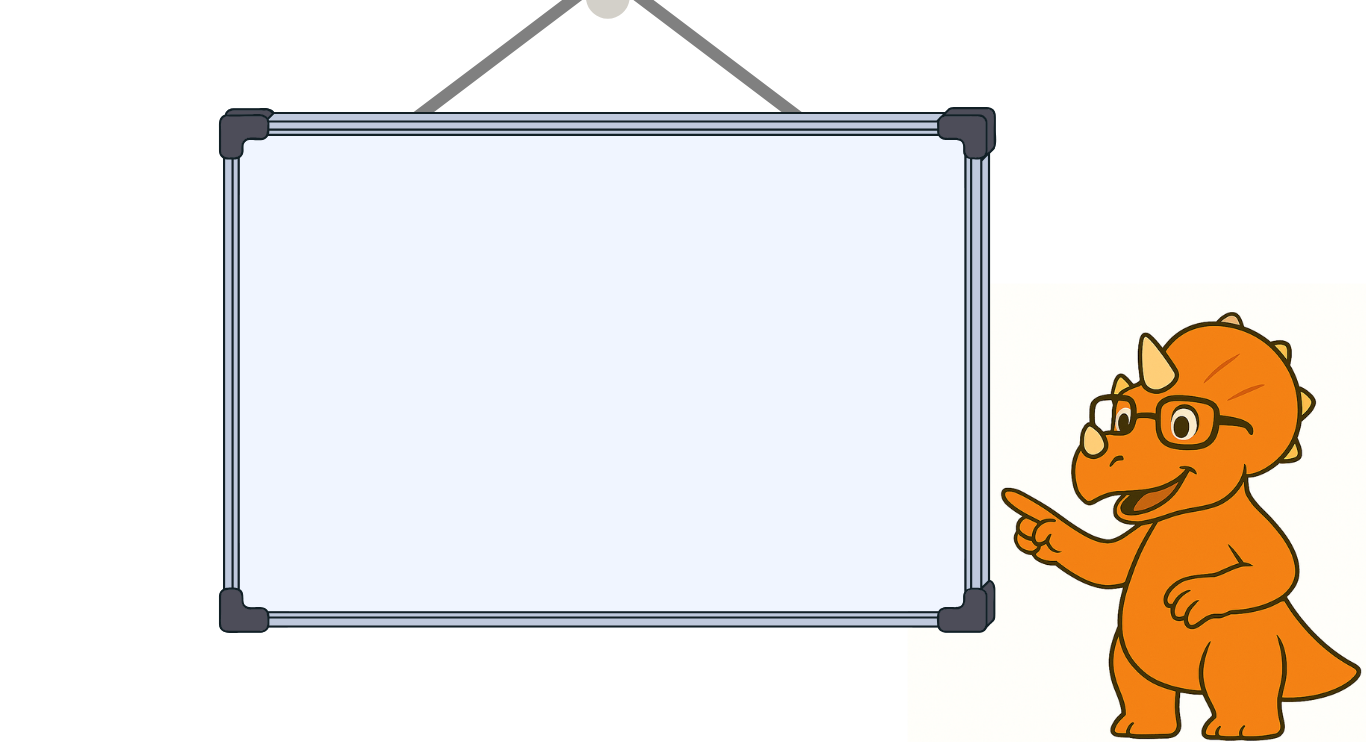
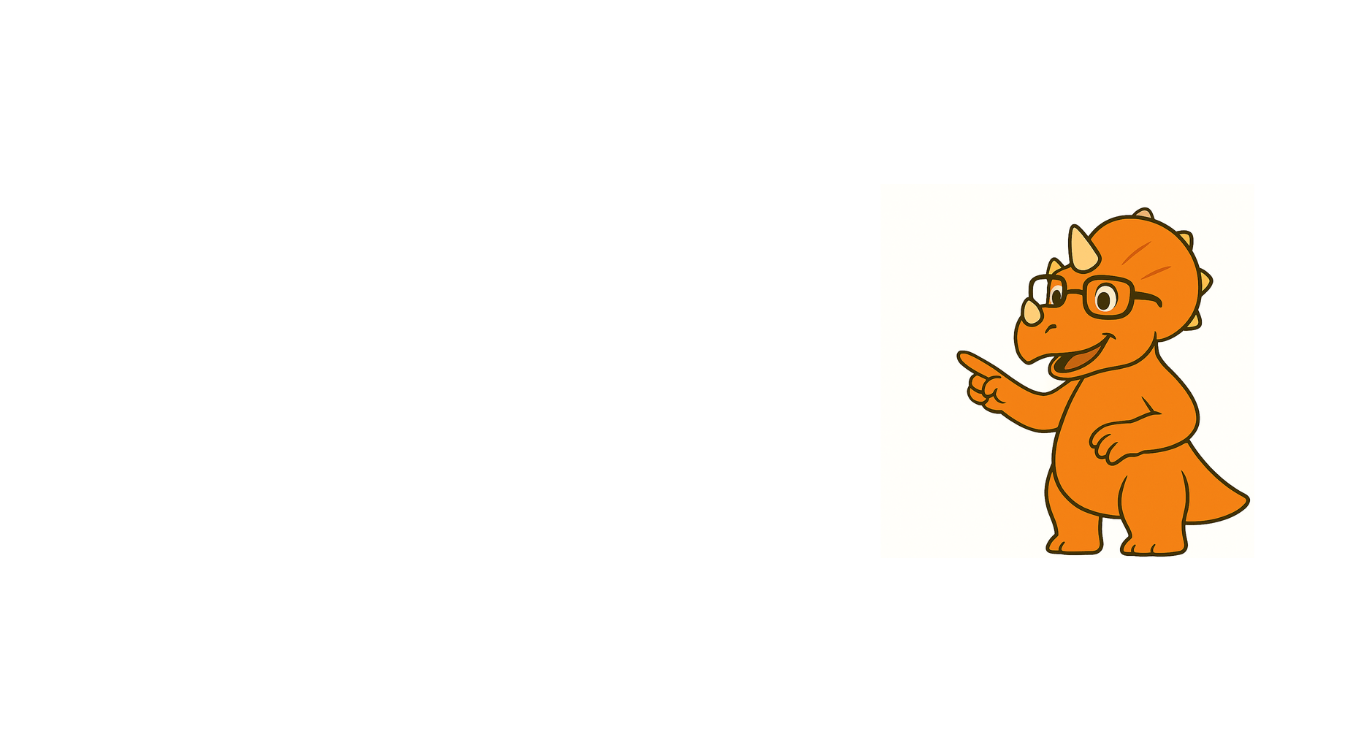
Finalizar y añadir responsive de página tutorial.

Changed region(s): [[0.1537, 0.031, 1.0, 1.0], [0.3997, 0.0, 0.4919, 0.031]]

diff --git a/Primera entrega/paginas/tutorial.html b/Primera entrega/paginas/tutorial.html
@@ -19,30 +19,91 @@
   </header>
 
   <section class="pizarron">
-    <h2>¡Bienvenido!</h2>
-    <p>
-      ¡Hola! Soy el profesor <strong>Cuernitos</strong>
-      y hoy te estaré enseñando cómo jugar <strong>Draftosaurus</strong>.
-    </p>
-    <p>
-      Acomodate en tu silla, sacá el snack y preparate para explorar el maravilloso mundo de los
-      <strong>dinosaurios</strong>.
-    </p>
-    <h4><strong>¡Comencemos!</strong></h4>
+    <p id="texto-pizarron"></p>
   </section>
+
+  <article class="botones-diapositivas">
+    <button style="display: none;" id="boton-anterior">Anterior</button>
+    <button style="display: none;" id="boton-siguiente">Siguiente</button>
+  </article>
 
   <footer class="logo-macrohard">
     <img src="../recursos/img/LogoMH2.png">
-    <div class="botones-footer">
-      <a href="#">&lt;-- Anterior</a>
-      <a href="#">Siguiente --&gt;</a>
-    </div>
   </footer>
 
   <script>
-    document.querySelector(".botones-footer").addEventListener("click", function () {
-      alert("¡Hola, soy el profe Cuernitos y aprobé JavaScript! Sin embargo, todavía tengo que hacer que los botones funcionen. ¡Disculpa las molestias!");
-    });
+
+    const textoPizarron = document.getElementById('texto-pizarron');
+    const botonAnterior = document.getElementById('boton-anterior');
+    const botonSiguiente = document.getElementById('boton-siguiente');
+
+const mensajes = [
+  "¡Hola! Soy el profesor <strong>Cuernitos</strong> y hoy te estaré enseñando cómo jugar <strong>Draftosaurus</strong>. <br> Acomodate en tu silla, sacá el snack y preparate para explorar el maravilloso mundo de los <strong>dinosaurios</strong>.",
+  
+  "<strong>Partida:</strong><br>Cada partida se divide en <strong>2 rondas</strong> de <strong>6 turnos</strong> cada una. Al inicio de cada ronda, todos agarran 6 dinosaurios al azar y los mantienen ocultos.",
+
+  "<strong>Ronda 1:</strong><br>El jugador más joven lanza el dado.<br>Todos eligen 1 dinosaurio y lo colocan en su parque.<br>Solo el jugador con el dado puede ignorar su regla.<br>Luego, pasan sus dinosaurios restantes a la izquierda, y también el dado.",
+
+  "<strong>Ronda 2:</strong><br>Empieza cuando todos tienen 6 dinos en su parque.<br>Se juega igual que la ronda 1.<br><br><strong>Final de la partida:</strong><br>Se suman los puntos. Gana quien tenga más.<br>Empate: gana quien tenga menos T-Rex. Si persiste, comparten la victoria.",
+
+  "<strong>Recintos:</strong><br>Tu parque tiene <strong>6 recintos</strong>, cada uno con reglas distintas para colocar dinosaurios y obtener puntos.<br>Además, existe el <strong>río</strong>, que no es un recinto, pero también sirve para ubicar dinosaurios.",
+
+  "<strong>El Bosque de la Semejanza:</strong><br>Solo acepta dinosaurios de <strong>la misma especie</strong>.<br>Se llena de izquierda a derecha sin dejar espacios.",
+
+  "<strong>El Prado de la Diferencia:</strong><br>Solo acepta dinosaurios de <strong>especies distintas</strong>.<br>También se llena de izquierda a derecha sin espacios.",
+
+  "<strong>La Pradera del Amor:</strong><br>Permite cualquier especie.<br><strong>5 puntos</strong> por cada <strong>pareja</strong> de la misma especie.<br>Los que no formen pareja no puntúan.",
+
+  "<strong>El Trío Frondoso:</strong><br>Solo da puntos si tiene <strong>exactamente 3 dinosaurios</strong>.<br>Menos o más: <strong>0 puntos</strong>.",
+
+  "<strong>El Rey de la Selva:</strong><br>Solo 1 dinosaurio.<br><strong>7 puntos</strong> si tenés más dinos de esa especie que los demás.<br>Empate: también ganás los puntos.",
+
+  "<strong>La Isla Solitaria:</strong><br>Solo 1 dinosaurio.<br><strong>7 puntos</strong> si es el único de su especie en tu parque.<br>Si hay otro igual en tu parque: 0 puntos.",
+
+  "<strong>El Río:</strong><br>No es un recinto.<br>Cada dinosaurio en el río vale <strong>1 punto</strong>, sin importar su especie.",
+
+  "<strong>T-Rex:</strong><br>Cada recinto con al menos 1 T-Rex da <strong>1 punto extra</strong>.<br>No importa si hay más de uno, siempre suma solo 1 extra por recinto.",
+
+  "<strong>El Dado:</strong><br>En cada turno, alguien lanza el dado.<br>La regla del dado se aplica a todos <strong>menos a quien lo tiró</strong>.",
+
+  "<strong>Caras del Dado:</strong><br>• <strong>Bosque:</strong> Colocar en recintos del área de bosque.<br>• <strong>Llanura:</strong> Colocar en recintos del área de llanura.<br>• <strong>Baños:</strong> Solo a la derecha del río.<br>• <strong>Cafetería:</strong> Solo a la izquierda del río.<br>• <strong>Recinto vacío:</strong> Solo en recintos sin dinosaurios.<br>• <strong>¡Cuidado con el T-Rex!:</strong> No se puede colocar en un recinto que ya tenga T-Rex."
+];
+
+    let indiceMensaje = 0;
+
+    function actualizarTexto() {
+      textoPizarron.innerHTML = mensajes[indiceMensaje];
+      if (indiceMensaje == 0) {
+        botonAnterior.style.display = 'none';
+      } else {
+        botonAnterior.style.display = 'flex';
+      }
+      if (indiceMensaje == mensajes.length - 1) {
+        botonSiguiente.style.display = 'none';
+      } else {
+        botonSiguiente.style.display = 'flex';
+      }
+    }
+
+    function mostrarSiguienteMensaje() {
+      if (indiceMensaje < mensajes.length - 1) {
+        indiceMensaje++;
+        actualizarTexto();
+      }
+    }
+
+    function mostrarMensajeAnterior() {
+      if (indiceMensaje > 0) {
+        indiceMensaje--;
+        actualizarTexto();
+      }
+    }
+
+    botonSiguiente.addEventListener('click', mostrarSiguienteMensaje);
+    botonAnterior.addEventListener('click', mostrarMensajeAnterior);
+
+    actualizarTexto();
+
   </script>
 
 </body>

diff --git a/Primera entrega/estilos/estilosTutorial.css b/Primera entrega/estilos/estilosTutorial.css
@@ -3,9 +3,6 @@ html {
   height: 100%;
   margin: 0;
   font-family: cursive;
-  background: url('../recursos/img/fondoTutorial.png') no-repeat center center;
-  background-size: 90%;
-  background-attachment: fixed;
   height: 100vh;
   width: 100vw;
   overflow: hidden;
@@ -16,7 +13,7 @@ header {
   background: transparent;
   height: 5vh;
   display: flex;
-  justify-content: end;
+  justify-content: center;
   padding: 1.5rem;
 }
 
@@ -36,46 +33,105 @@ header {
 
 .logo-macrohard {
   z-index: 10;
+  height: 10dvh;
+  position: absolute;
+  transform: translateX(-50%);
+  left: 50%;
+  bottom: 10px;
   display: flex;
   flex-direction: column;
 }
 
 .logo-macrohard img {
   max-height: 60px;
-  height: auto;
-  width: auto;
-  position: absolute;
-  bottom: 10px;
-  left: 20px;
 }
 
-.logo-macrohard div {
+.botones-diapositivas {
+  position: absolute;
+  bottom: 15dvh;
+  left: 50%;
+  transform: translateX(-50%);
   padding: 0.5rem;
   display: flex;
   justify-content: center;
   align-items: center;
-  margin-top: 19rem;
-  margin-right: 12rem;
 }
 
-.logo-macrohard a {
+.botones-diapositivas button {
   background-color: #03920f;
   color: white;
   padding: 0.8rem 1.6rem;
   border-radius: 2rem;
   transition: background-color 0.3s ease;
-  text-decoration: none;
   font-size: 1rem;
   margin-left: 1rem;
+  border: none;
+}
+
+.botones-diapositivas button:hover {
+  background-color: #002403;
 }
 
 .pizarron {
-  color: #03920f;
-  margin-top: 12rem;
-  flex-direction: row;
-  justify-content: center;
-  align-items: center;
-  margin-left: 25.5rem;
-  padding: 3rem;
-  font-size: 18px;
+  background-color: #2d4d32;
+  border: 12px solid #5e3c0b;
+  border-radius: 12px;
+  height: 60dvh;
+  box-shadow: 0 0 20px rgba(0, 0, 0, 0.5);
+  width: 95dvw;
+  color: white;
+  font-family: cursive;
+  font-size: 20px;
+  padding: 2.5rem 3rem;
+  margin: auto;
+  margin-top: 5vh;
+  background-size: 30px 30px;
+  box-sizing: border-box;
+}
+
+.pizarron p {
+  margin: 0;
+  padding: 0.5rem 0;
+  font-size: 0.8rem;
+}
+
+@media (min-width: 577px) {
+
+  body {
+    background-image: url('../recursos/img/fondoTutorial.png');
+    background-repeat: no-repeat;
+    background-position: center center;
+    background-attachment: fixed;
+    background-size: cover;
+  }
+
+  .logo-macrohard {
+    position: absolute;
+    left: 10px;
+    bottom: 10px;
+    transform: none;
+    height: 10dvh;
+  }
+
+  .pizarron {
+    width: 60dvw;
+    height: 70dvh;
+    padding: 3rem 4rem;
+    position: absolute;
+    top: 7dvh;
+    left: 5%;
+  }
+
+  .pizarron p {
+    font-size: 2rem;
+  }
+
+  .botones-diapositivas {
+    bottom: 6dvh;
+  }
+
+  header {
+    justify-content: end;
+  }
+
 }
